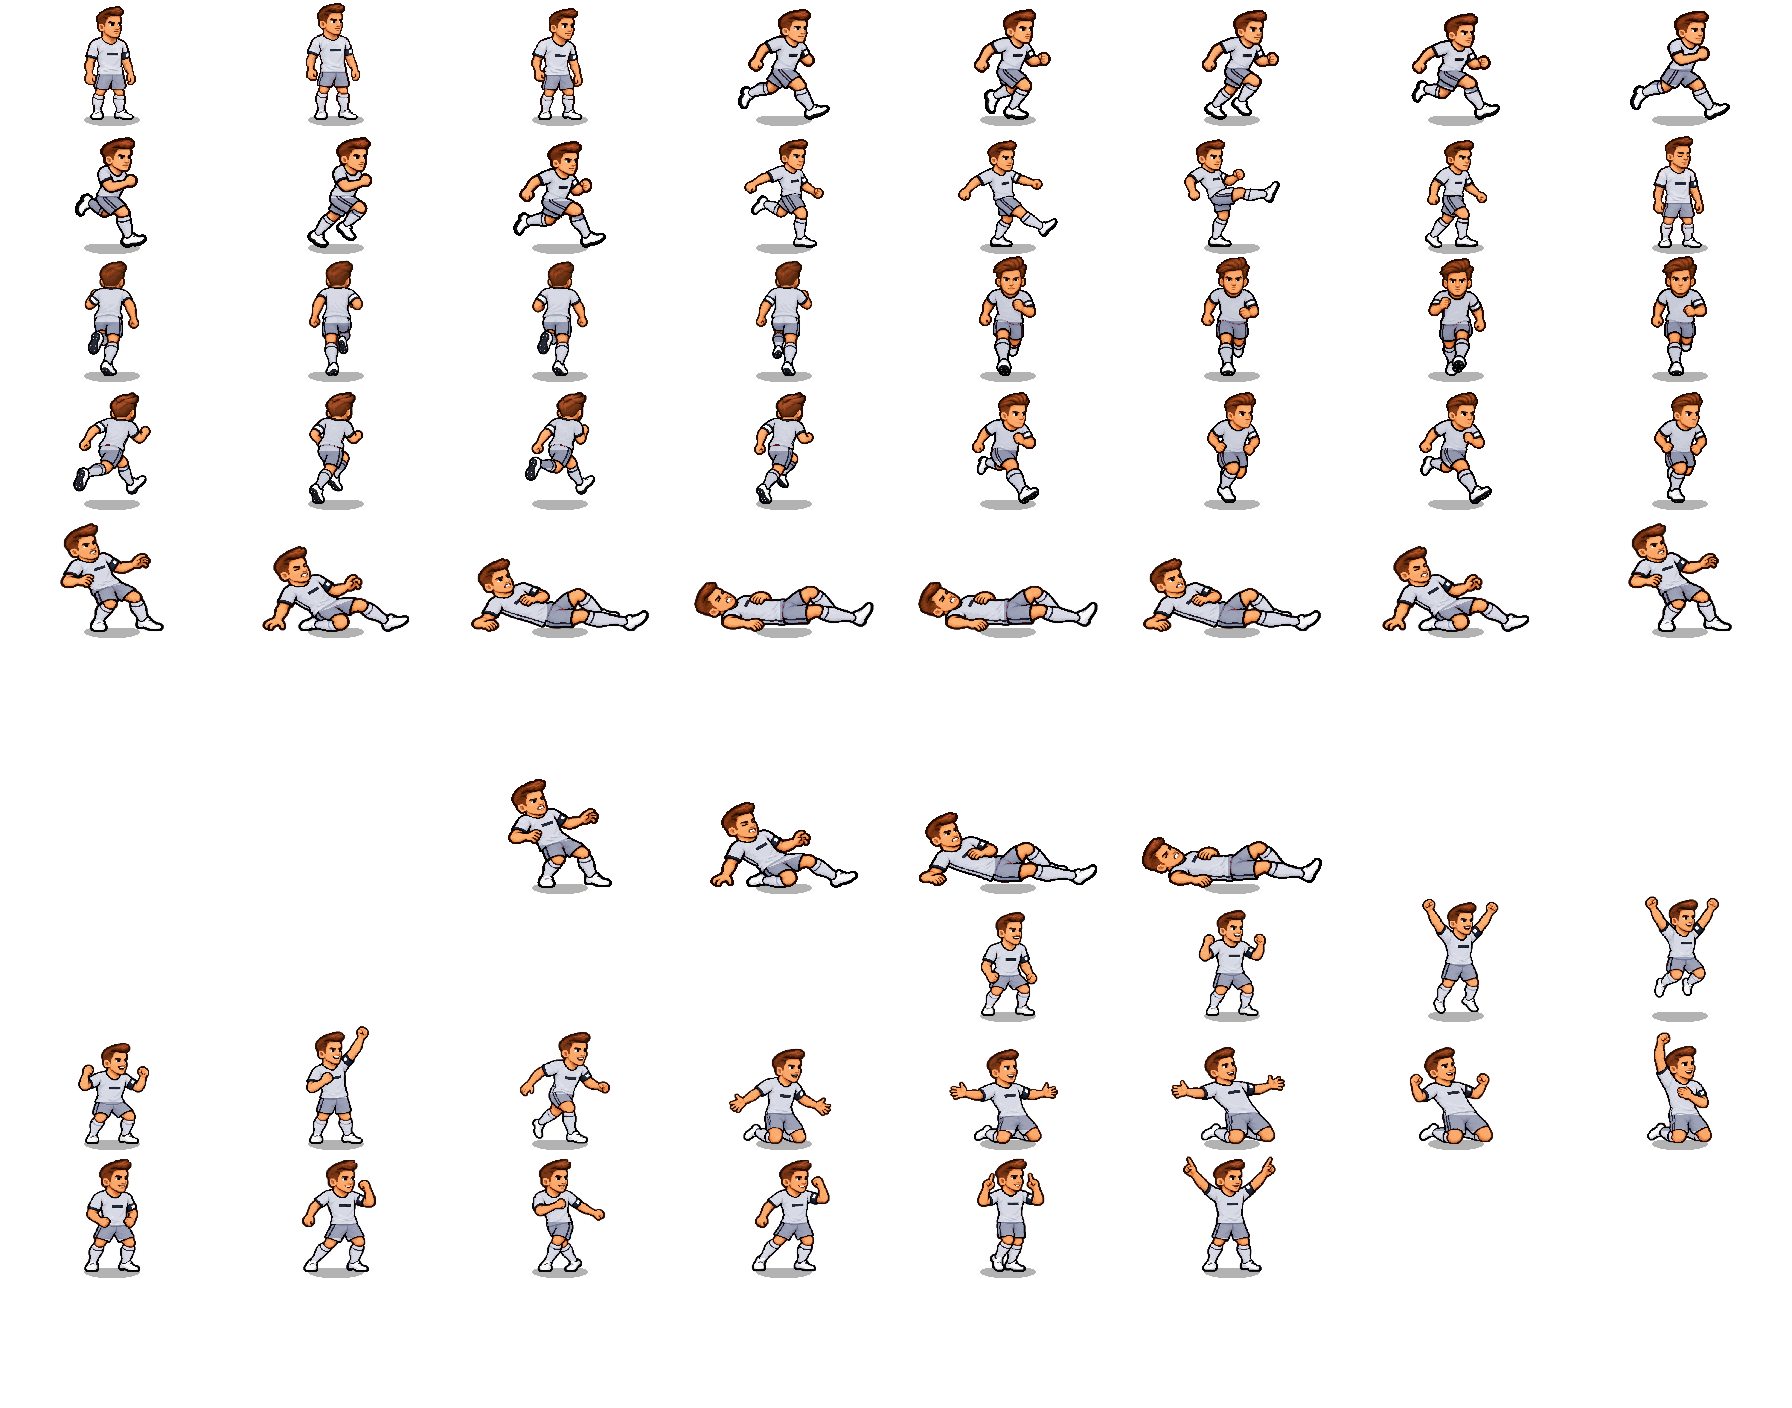
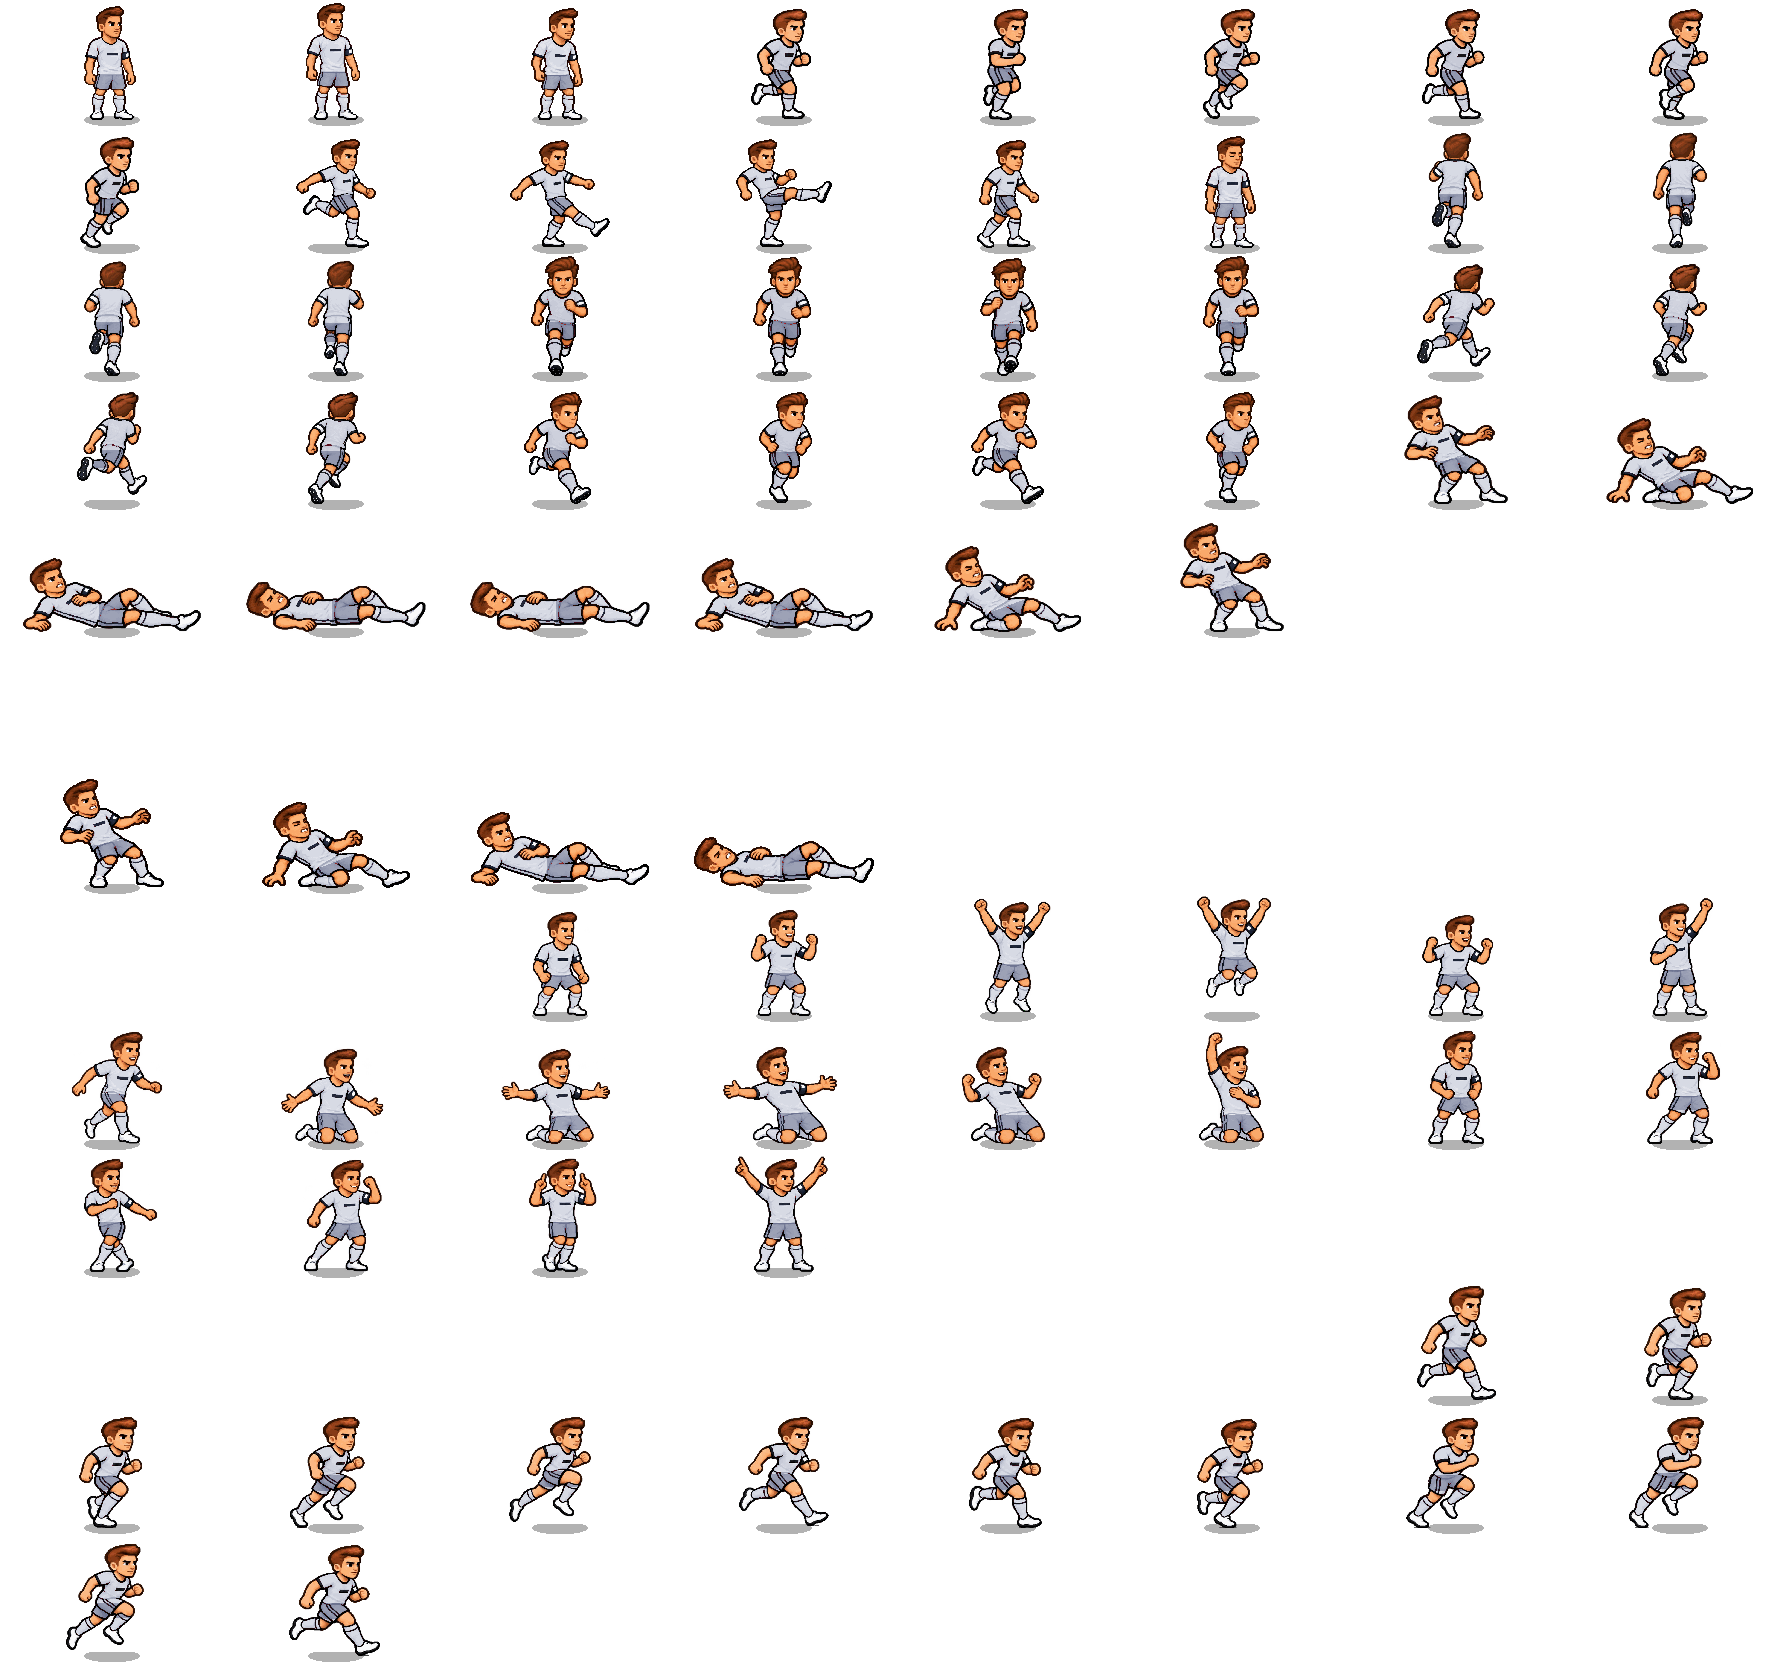
New six-pose side run and twelve-pose sprint animations
- Run: user-supplied six-pose sheet replaces the eight-pose side run
  (12 fps, same half-second stride).
- Sprint: new twelve-pose sheet, played when sprinting side-on (24 fps,
  same stride); up/down/diagonal views keep their runs at 8 fps.
- Both cut to 640x724 cells at the old run's figure height, feet on the
  shared ground line; per-pose kit lines; atlases re-baked (98 frames).

diff --git a/src/client/art/playerSheets.ts b/src/client/art/playerSheets.ts
@@ -20,7 +20,7 @@ export const PLAYER_ORIGIN_Y = 30 / 32;
 const SHADOW_ROW = 29 * DETAIL; // the shadow sits below the boots
 
 export const IDLE_FRAMES = ['idle1', 'idle2', 'idle3', 'idle4'];
-export const RUN_FRAMES = Array.from({ length: 8 }, (_, i) => `run${i + 1}`);
+export const RUN_FRAMES = Array.from({ length: 6 }, (_, i) => `run${i + 1}`);
 export const SHOOT_FRAMES = [
   'shoot_windup',
   'shoot_contact',
@@ -66,6 +66,11 @@ export const BLOCK_FRAMES = Array.from(
   { length: 3 },
   (_, i) => `block${i + 1}`
 );
+// Sprinting, side view: a 12-pose stride (user-supplied sheet).
+export const SPRINT_FRAMES = Array.from(
+  { length: 12 },
+  (_, i) => `sprint${i + 1}`
+);
 
 // Every atlas (each kit and the two look layers) holds these frames in this
 // order, ATLAS_COLUMNS to a row: 8 x 224 = 1792 px wide, within the 2048 px
@@ -91,6 +96,7 @@ const FRAMES = [
   ...KEEPER_IDLE_FRAMES,
   ...JUMP_FRAMES,
   ...BLOCK_FRAMES,
+  ...SPRINT_FRAMES,
 ];
 export const ATLAS_W = PLAYER_W * ATLAS_COLUMNS;
 export const ATLAS_H = PLAYER_H * Math.ceil(FRAMES.length / ATLAS_COLUMNS);
@@ -361,25 +367,25 @@ export const SOURCE_SHEETS: readonly SourceSheet[] = [
     shortsEnd: [525, 510, 528, 525],
   },
   {
-    // Redrawn head; the shorts lines slant where the back leg's sock sits
-    // higher than the front shorts.
+    // Six-pose side run (user-supplied sheet, cut to these cells at the
+    // previous run's scale; lines read off each pose).
     file: 'player-run-authored',
     frames: RUN_FRAMES,
     cellW: 640,
     columns: 4,
     ground: 681,
-    waist: [],
-    shortsEnd: [],
-    splits: [
-      { waist: [0, 395, 640, 395], shortsEnd: [0, 480, 640, 500] },
-      { waist: [0, 392, 640, 392], shortsEnd: [0, 490, 640, 490] },
-      { waist: [0, 386, 640, 386], shortsEnd: [0, 488, 640, 488] },
-      { waist: [0, 405, 640, 405], shortsEnd: [100, 468, 380, 515] },
-      { waist: [0, 390, 640, 390], shortsEnd: [0, 478, 640, 490] },
-      { waist: [0, 385, 640, 385], shortsEnd: [0, 480, 640, 480] },
-      { waist: [0, 396, 640, 396], shortsEnd: [0, 488, 640, 488] },
-      { waist: [0, 415, 640, 415], shortsEnd: [90, 478, 380, 512] },
-    ],
+    waist: [402, 386, 400, 402, 396, 405],
+    shortsEnd: [486, 482, 482, 488, 482, 488],
+  },
+  {
+    // Twelve-pose side sprint (user-supplied sheet, same scale as the run).
+    file: 'player-sprint-authored',
+    frames: SPRINT_FRAMES,
+    cellW: 640,
+    columns: 4,
+    ground: 681,
+    waist: [384, 386, 388, 382, 356, 376, 382, 386, 382, 372, 380, 384],
+    shortsEnd: [470, 468, 468, 470, 450, 458, 466, 470, 472, 462, 466, 470],
   },
   {
     // Redrawn head; the swung-back and kicking legs get their own sock lines.

diff --git a/src/client/art/playerArt.ts b/src/client/art/playerArt.ts
@@ -18,6 +18,7 @@ import {
   PLAYER_ATLAS_KEYS,
   RUN_FRAMES,
   SHOOT_FRAMES,
+  SPRINT_FRAMES,
   UP_DIAGONAL_FRAMES,
   UP_FRAMES,
   atlasFrames,
@@ -49,6 +50,7 @@ export const IDLE_FRAME = 'idle1';
 export type RunView = 'side' | 'up' | 'down' | 'up-diagonal' | 'down-diagonal';
 export const runAnim = (kit: Kit, view: RunView = 'side') =>
   `player-${kit}-run${view === 'side' ? '' : `-${view}`}`;
+export const sprintAnim = (kit: Kit) => `player-${kit}-sprint`;
 export const shootAnim = (kit: Kit) => `player-${kit}-shoot`;
 export const celebrateAnim = (kit: Kit, style: number) =>
   `player-${kit}-celebrate-${style}`;
@@ -56,7 +58,12 @@ export const idleAnim = (kit: Kit) => `player-${kit}-idle`;
 export const holdAnim = (kit: Kit, moving = false) =>
   `player-${kit}-${moving ? 'carry' : 'hold'}`;
 // Run frames per second at walking pace (Player scales it with speed).
-export const RUN_FPS = 16; // Eight authored poses in the half-second stride.
+export const RUN_FPS = 12; // Six authored poses in the half-second stride.
+// Sprint frames per second at walking pace: twelve poses in the same
+// half-second stride, so switching to a sprint keeps the leg rhythm.
+export const SPRINT_FPS = 24;
+// Up / down / diagonal runs: four poses in the same half-second stride.
+const VIEW_RUN_FPS = 8;
 
 export const MARKER_TARGET = 'marker-target';
 export const MARKER_ARROW = 'marker-arrow';
@@ -116,11 +123,18 @@ function createAnimations(scene: Phaser.Scene, kit: Kit) {
     frameRate: 4,
     repeat: -1,
   });
-  // Running: the full 8-frame stride.
+  // Running: the six-pose stride.
   scene.anims.create({
     key: runAnim(kit),
     frames: frames(RUN_FRAMES),
     frameRate: RUN_FPS,
+    repeat: -1,
+  });
+  // Sprinting (side view only): the 12-pose stride.
+  scene.anims.create({
+    key: sprintAnim(kit),
+    frames: frames(SPRINT_FRAMES),
+    frameRate: SPRINT_FPS,
     repeat: -1,
   });
   const views: readonly [RunView, readonly string[]][] = [
@@ -133,7 +147,7 @@ function createAnimations(scene: Phaser.Scene, kit: Kit) {
     scene.anims.create({
       key: runAnim(kit, view),
       frames: frames(names),
-      frameRate: RUN_FPS / 2,
+      frameRate: VIEW_RUN_FPS,
       repeat: -1,
     });
   // Shooting (and keeper kicks): played once when the ball is struck.

diff --git a/src/client/entities/Player.ts b/src/client/entities/Player.ts
@@ -19,6 +19,7 @@ import {
   holdAnim,
   playerTexture,
   runAnim,
+  sprintAnim,
   shootAnim,
   type Kit,
   type Look,
@@ -484,7 +485,13 @@ export class Player {
             : vertical > diagonalThreshold
               ? 'down-diagonal'
               : 'side';
-      this.sprite.play(runAnim(this.kit, this.runView), true);
+      // Side-on sprinting has its own stride; other views keep the run.
+      this.sprite.play(
+        this.sprinting && this.runView === 'side'
+          ? sprintAnim(this.kit)
+          : runAnim(this.kit, this.runView),
+        true
+      );
       // Leg cycle speeds up with running speed (sprint ~1.5x).
       this.sprite.anims.timeScale = this.speed / 220;
     } else {

diff --git a/project-status.md b/project-status.md
@@ -16,6 +16,14 @@ Hand-off notes for any developer or AI model picking up this project. **Update t
 
 **Chaos bot balance (2026-11-08):** Power Surge bots move closer under reduced power and check their chosen charge against the real shot flight. They adjust if it would stop short or go over the bar. Goal Resize bots read lanes from the ball, use the smaller opening to judge placement and aim error, and adjust shot height for the lower bar. AI keepers cover wider goals earlier and have extra reach on airborne saves in taller goals. Gameplay regressions cover both teams at 50% and 150% power, Easy finishing at 50% goal size, and high and wide saves at 150% goal size. Types, lint, the production build and all six mocked Chromium Chaos scenarios pass. Live balance review remains pending.
 
+**New side run and sprint animations (2026-11-08):** Two user-supplied sheets replace and extend the side-on running:
+- **Run:** six poses replace the old eight-pose `player-run-authored.png` (`RUN_FRAMES` = 6, `RUN_FPS` 12, the same half-second stride).
+- **Sprint:** twelve poses in a new `player-sprint-authored.png` (`SPRINT_FRAMES`, `SPRINT_FPS` 24, same stride). `Player` plays it when sprinting with the side view. Up/down/diagonal views keep their four-pose runs at a fixed 8 fps (`VIEW_RUN_FPS`).
+
+Both sheets were cut from their transparent WebP sources into the usual 640x724 cells, 4 per row. They use one uniform scale matching the old run sheet's median figure height (625.5 px), with the head and torso centred in each cell and the lowest boot of each source row on ground 681, so the authored bounce stays. Per-pose `waist` / `shortsEnd` lines were read from a ruler overlay, and a baked preview checked blue, white, red and keeper kits.
+
+Atlases now hold 98 frames (13 rows, 1792x1664). Re-baked with `art:bake` and `optimize_art.py`: each kit WebP grew about 38 KiB (pink 214 to 250 KiB). The one-off cutting scripts lived in the session scratchpad and are not part of the repo. Not yet seen in a live match.
+
 **Shorter receiver slowdown (2026-11-08):** `PASS.receiveHoldSec` halved from 1 s to 0.5 s at the user's request. A normal pass's intended receiver is held to 80 px/s with no sprint only for the first half second of the pass, or until the ball arrives. Through balls are still exempt. The passer's 0.08 s wind-up and 0.25 s regain lock are unchanged.
 
 **Air pass: chip height, pass flight (2026-11-08):** The user wanted the aerial pass as high as a chip shot, but still an aerial pass to a teammate (a first attempt copied the chip shot's pace too, and was reverted the same day). The aerial pass (PASS swiped up, B key, or a held curl) now launches with the chip shot's lift, from `SHOOT.chipMinLift` for short passes up to `chipMaxLift` at `PASS.airFullDist` (800 px). Its pace is fitted, air drag included, so the first bounce lands at the receiver's lead spot, capped at `PASS.airMaxSpeed` (1300). Tap or hold, it goes to the receiver. The logic check confirms chip-range lift and a landing at the receiver for tapped and held air passes and for the aerial curl.
@@ -917,6 +925,7 @@ Checks the assistant can run (through WSL, since `node_modules` was installed th
 
 ## Next up
 
+- Watch the new run and sprint in a match: stride speed at walk vs sprint, the run-to-sprint switch, and non-pink kits' shorts/sock lines on the high back leg.
 - Check the restyled match info pages on phone and desktop (text fit of long team names, Chaos/Rampage lines, three-button row).
 - Playtest the aerial pass height/hang time (`PASS.airLoft`, `airMaxVz`) and the curl air threshold (`PASS.curlAirWeight`).
 - Verify desktop key remapping and iframe focus in a live Reddit playtest.
@@ -1241,6 +1250,7 @@ Then tune from the feedback (most knobs: `LEVELS`, `AI`, `TACKLE`, `KEEPER` in `
 
 ## Changelog
 
+- **2026-11-08:** New six-pose side run and twelve-pose sprint animations from user sheets; atlases re-baked.
 - **2026-11-08:** Receiver slowdown after a pass halved: 1 s to 0.5 s.
 - **2026-11-08:** Air pass: chip-shot height but paced to land at the receiver (replaces the same-day "copy the chip shot" version).
 - **2026-11-08:** How to play (touch): the PASS disc now has the same four slide arrows as SHOOT.
